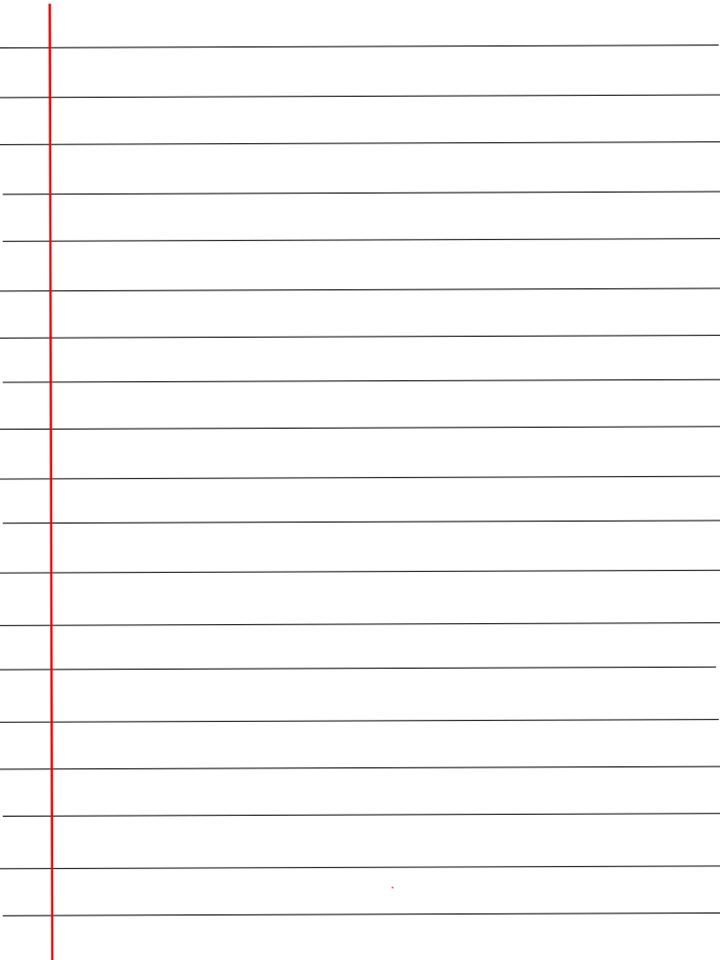
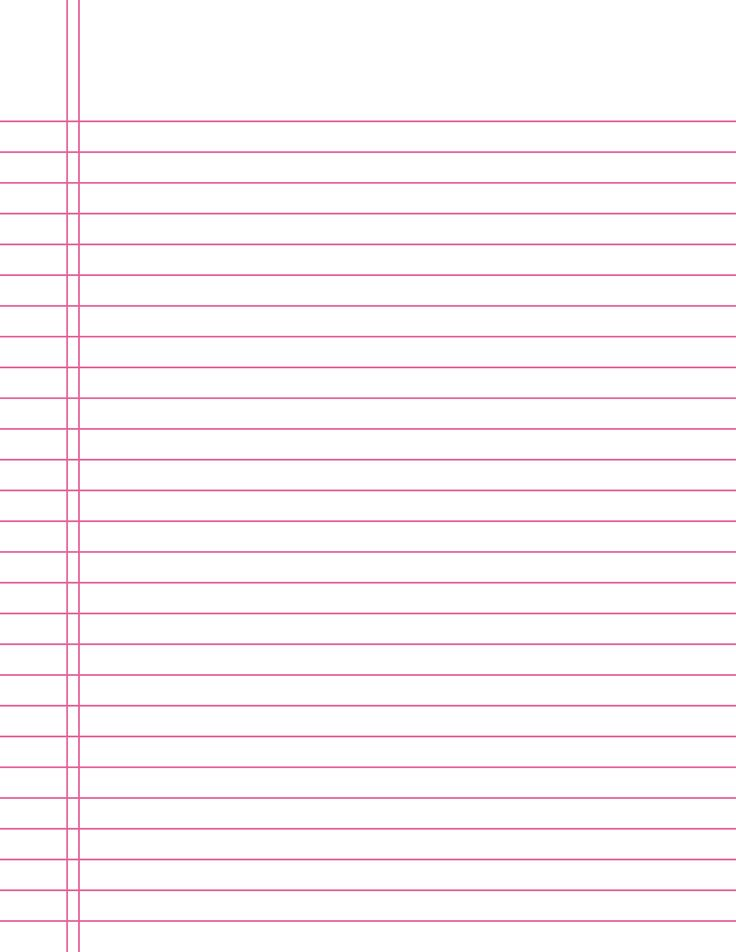
add background Image

Changed region(s): [[0.0, 0.0, 1.0, 1.0]]

diff --git a/src/style.css b/src/style.css
@@ -33,17 +33,18 @@ input {
   width: 500px;
   height: 40px;
   border: 3px solid black;
+  font-family: "DNFBitBitv2";
 }
 .weather {
-  width: 100px;
+  width: 200px;
   height: 100px;
   border: 3px solid black;
   margin: 0px 0px 15px 0px;
 }
 .weatherImage {
   display: grid;
-  width: 80%;
-  padding-left: 10px;
+  width: 80px;
+  padding-left: 50px;
 }
 .location {
   display: flex;

diff --git a/src/js/index.js b/src/js/index.js
@@ -68,6 +68,6 @@ navigator.geolocation.getCurrentPosition(onGeo, onGeoError);
 
 // background
 
-const rand = Math.floor(Math.random() * 5);
+const rand = Math.floor(Math.random() * 4);
 const image = `./src/asset/background/${rand}.jpeg`;
 document.body.style.backgroundImage = `url(${image})`;
